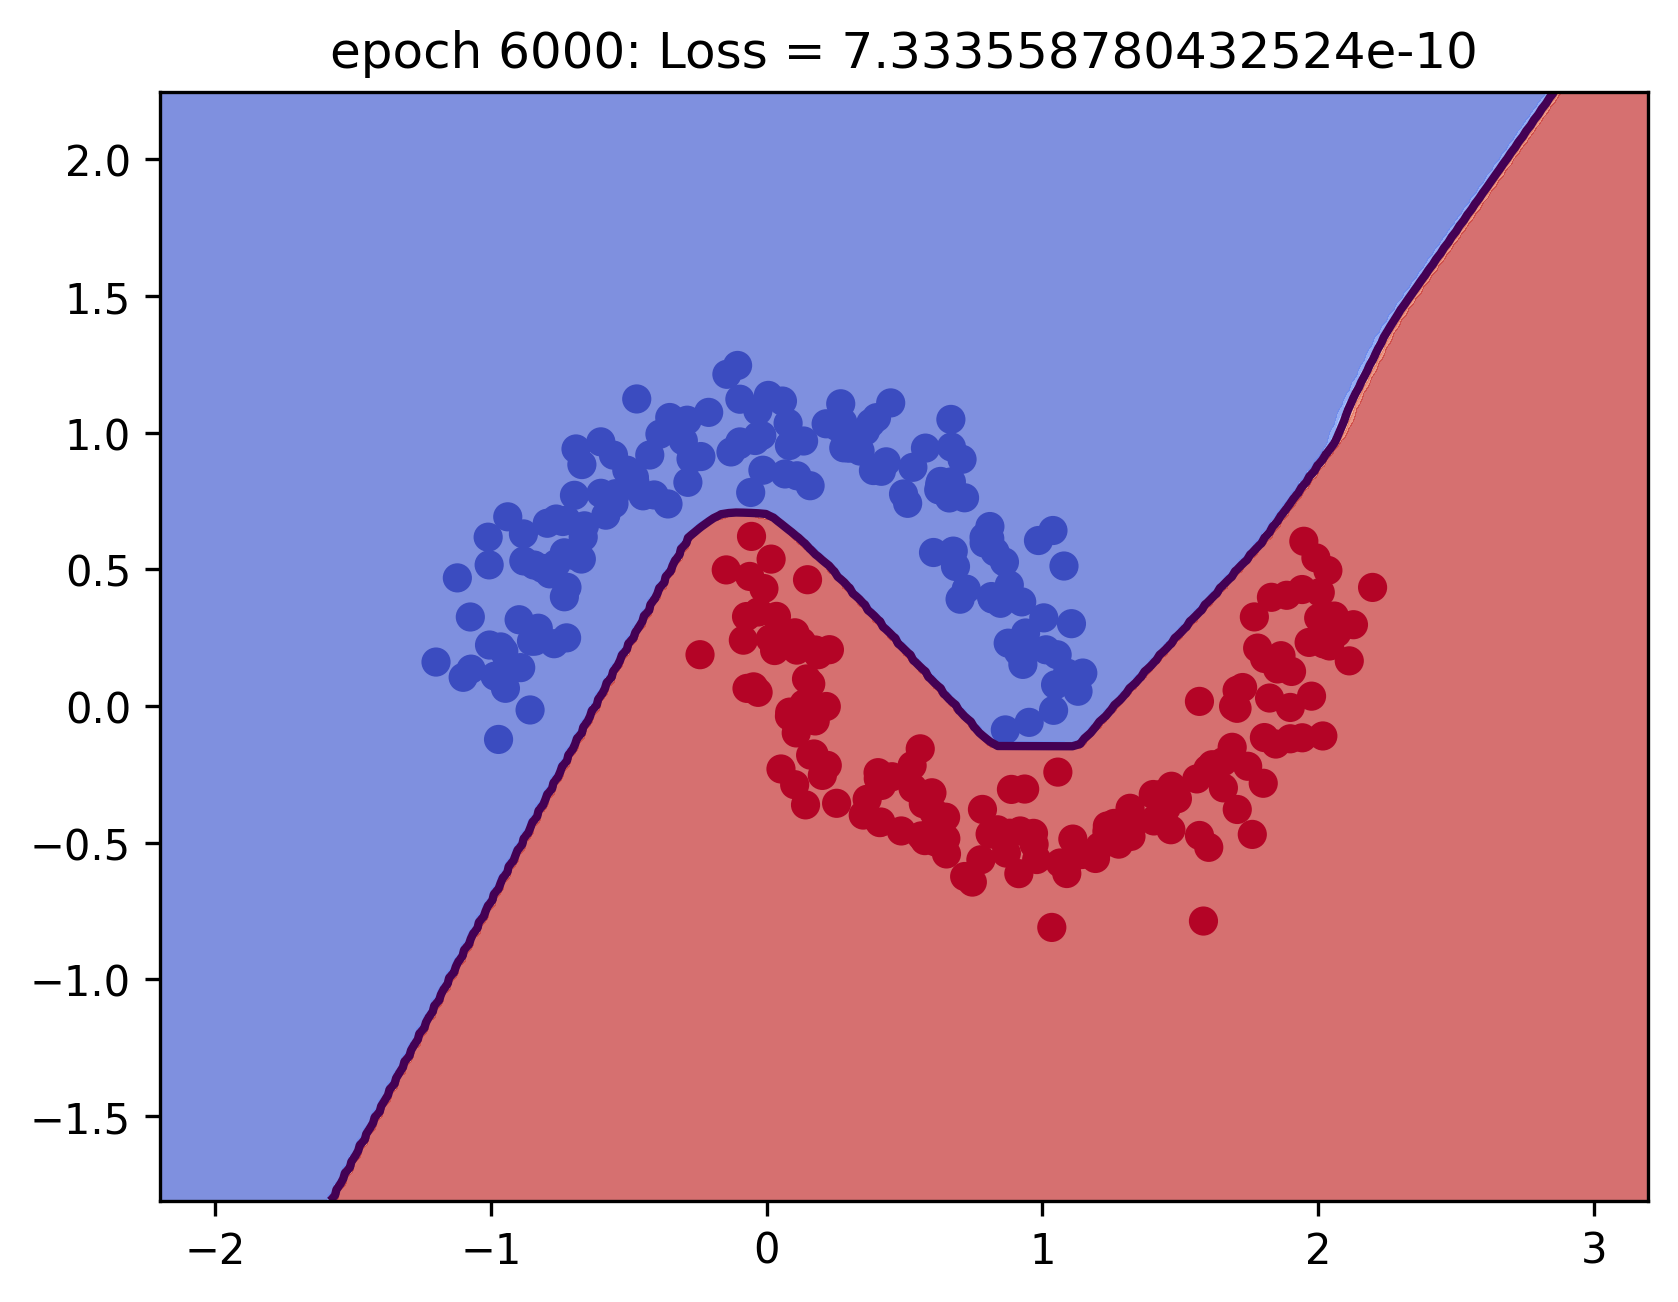
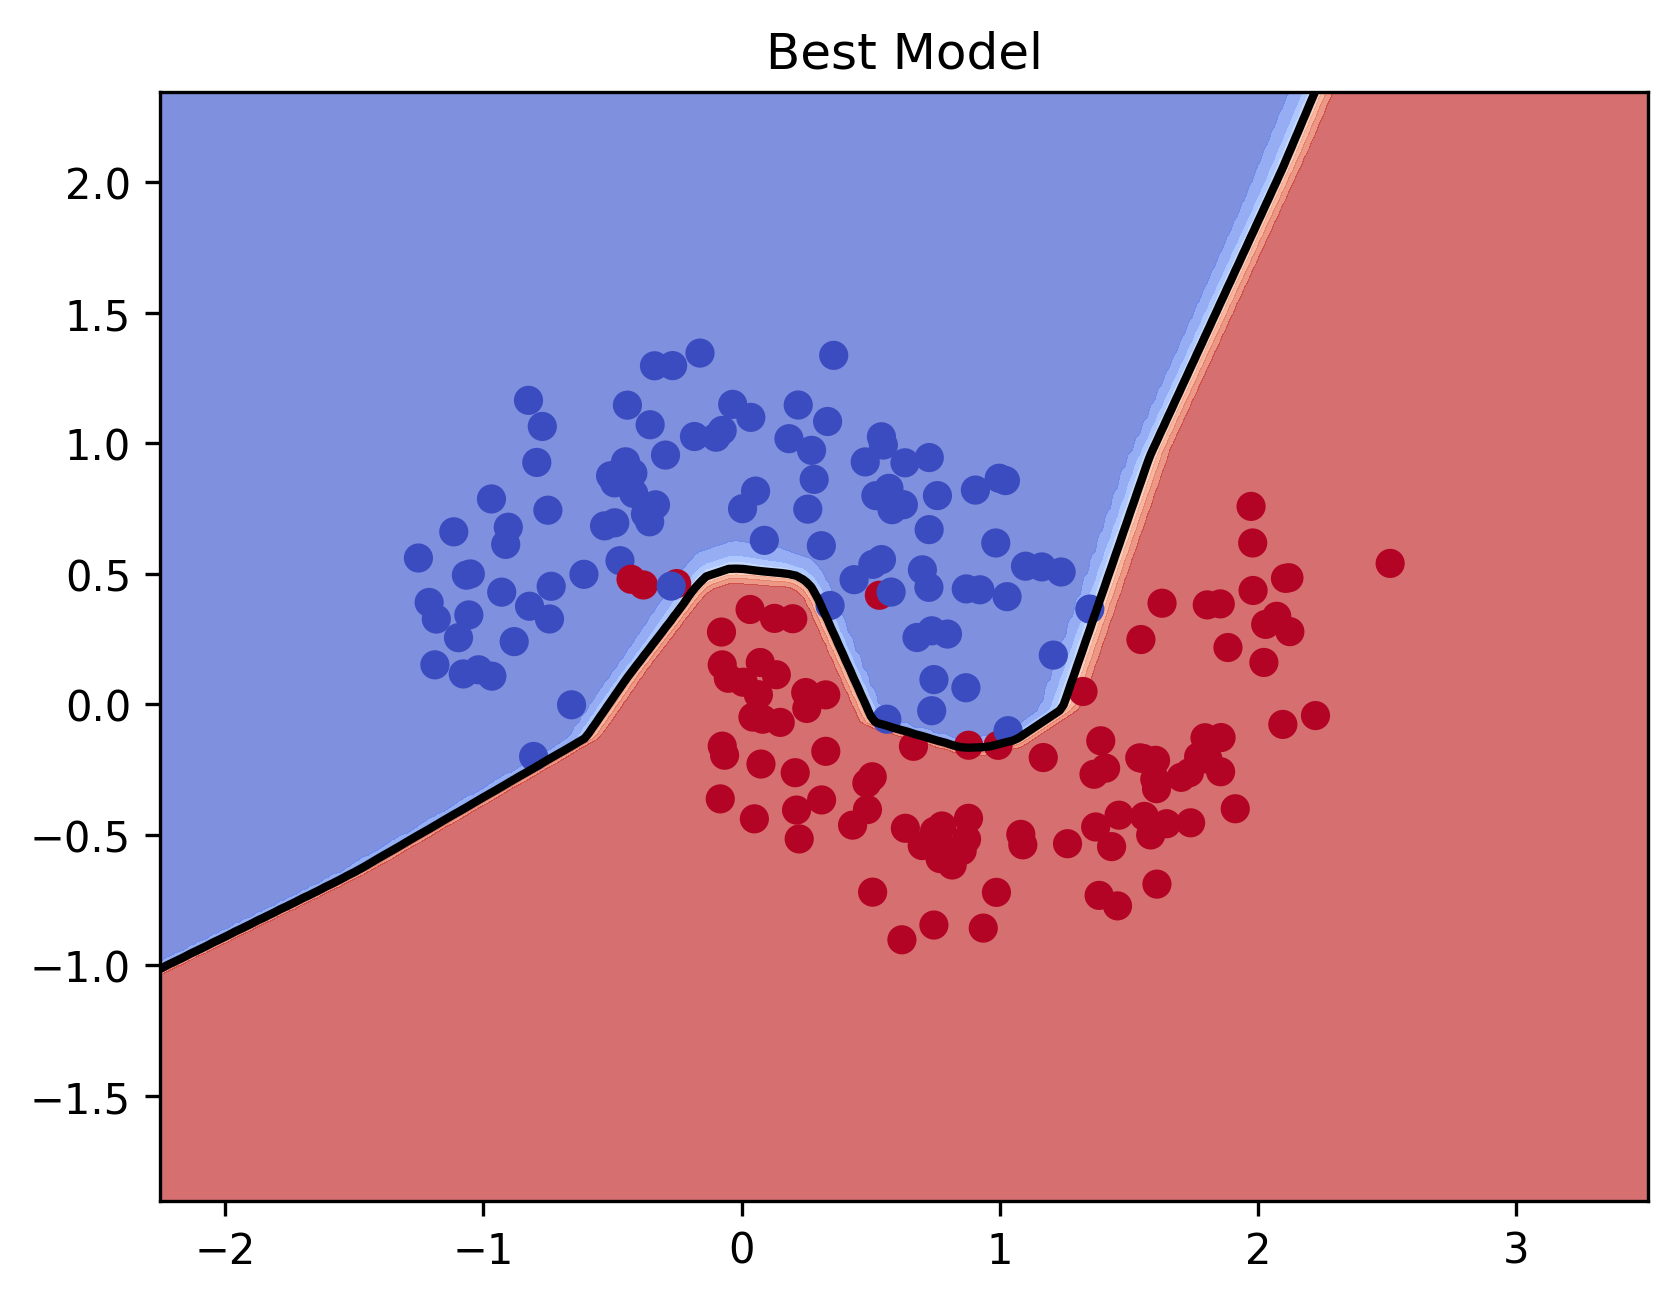
Implemented train/val/test data splitting

diff --git a/models/neural_network.py b/models/neural_network.py
@@ -9,7 +9,8 @@ class NN:
         ):
         self.W = [None]
         self.b = [None]
-        self.losses = []
+        self.train_losses = []
+        self.val_losses = []
         self.layer_sizes = layer_sizes
         self.hidden_activation = hidden_activation
         self.output_activation = output_activation
@@ -18,6 +19,10 @@ class NN:
         '''
         Initializes the random weights and biases of the network
         '''
+        self.W = [None]
+        self.b = [None]
+        self.train_losses = []
+        self.val_losses = []
         full_layers_sizes = [n_features] +  self.layer_sizes
         n_layers = len(full_layers_sizes)
 
@@ -86,18 +91,98 @@ class NN:
         return dJdW, dJdb
 
 
-    def fit(self, X, y, epochs=10000, learning_rate=0.01) -> None:
+    def fit(
+            self,
+            X: np.ndarray,
+            y: np.ndarray,
+            X_val: np.ndarray=None,
+            y_val: np.ndarray=None,
+            learning_rate: float=0.01,
+            epochs: int=10000,
+            optimizer: str='gd',
+            tolerance: float = 1e-12,
+            patience: int=100,
+            callback=None
+        ) -> None:
         self._init_parameters(len(next(iter(X))))
 
+        M_w = [np.zeros_like(w) if w is not None else 0 for w in self.W]
+        M_b = [np.zeros_like(b) if b is not None else 0 for b in self.b]
+        V_w = [np.zeros_like(w) if w is not None else 0 for w in self.W]
+        V_b = [np.zeros_like(b) if b is not None else 0 for b in self.b]
+
+        beta1 = 0.9
+        beta2 = 0.99
+        t = 0
+
+        eps = 1e-8
+        prev_loss = 0
+        patience_counter = 0
+
+        if X_val is not None and y_val is not None:
+            best_val_loss = 1e9
+            best_W = None
+            best_b = None
+        else:
+            best_val_loss = None
+            val_loss = None
+
         for epoch in range(epochs):
+            t = epoch + 1
+
             a, Z = self.forward(X)
-            loss = self.compute_cost(a[-1], y)
-            self.losses.append(loss)
+            train_loss = self.compute_cost(a[-1], y)
+            self.train_losses.append(train_loss)
+
+            if X_val is not None and y_val is not None:
+                a_, Z_ = self.forward(X_val)
+                val_loss = self.compute_cost(a_[-1], y_val)
+                self.val_losses.append(val_loss)
+
+                if val_loss < best_val_loss:
+                    best_val_loss = val_loss
+                    best_W = [w.copy() if w is not None else None for w in self.W]
+                    best_b = [b.copy() if b is not None else None for b in self.b]
+                    best_epoch = epoch
+                    patience_counter = 0
+                else:
+                    patience_counter += 1
+            
+            if abs(train_loss - prev_loss) < tolerance or patience_counter > patience:
+                print(f"Early stopping at epoch={epoch}")
+                break
+
+            prev_loss = train_loss
+
             dW, db = self.backprop(a, Z, y)
             for i in range(1, len(self.W)):
-                self.W[i] = self.W[i] - learning_rate * dW[i]
-                self.b[i] = self.b[i] - learning_rate * db[i]
-            print(f"epoch {epoch}: Loss = {loss}")
+                if optimizer == 'gd':
+                    self.W[i] = self.W[i] - learning_rate * dW[i]
+                    self.b[i] = self.b[i] - learning_rate * db[i]
+                elif optimizer == 'adam':
+                    M_w[i] = beta1 * M_w[i] + (1 - beta1) * dW[i]
+                    M_b[i] = beta1 * M_b[i] + (1 - beta1) * db[i]
+
+                    V_w[i] = beta2 * V_w[i] + (1 - beta2) * dW[i]**2
+                    V_b[i] = beta2 * V_b[i] + (1 - beta2) * db[i]**2
+
+                    M_w_hat = M_w[i] / (1 - beta1 ** t)
+                    M_b_hat = M_b[i] / (1 - beta1 ** t)
+
+                    V_w_hat = V_w[i] / (1 - beta2 ** t)
+                    V_b_hat = V_b[i] / (1 - beta2 ** t)
+
+                    self.W[i] = self.W[i] - learning_rate * M_w_hat / (np.sqrt(V_w_hat) + eps)
+                    self.b[i] = self.b[i] - learning_rate * M_b_hat / (np.sqrt(V_b_hat) + eps)
+            
+            if epoch % 50 == 0:
+                print(f"epoch {epoch}: Train Loss = {train_loss} - Validation Loss = {val_loss} - Best Validation Loss = {best_val_loss}")
+                if callback:
+                    callback(self, epoch)
+
+        if X_val is not None and y_val is not None:
+            self.W = best_W
+            self.b = best_b
         
 
     def g(self, activation, Z):
@@ -114,62 +199,12 @@ class NN:
 
         return activations[activation](Z)
 
+
     def predict_prob(self, X):
         a, _ = self.forward(X)
         return a[-1]
 
-    
+
     def predict(self, X):
         a, Z = self.forward(X)
         return (a[-1] > 0.5).astype(int)
-
-
-    def train_with_plt(self, X, y, epochs=10000, learning_rate=0.01) -> None:
-        self._init_parameters(len(next(iter(X))))
-
-        plt.ion()
-        fig, ax = plt.subplots()
-
-        ax.scatter(X, y, edgecolors='green')
-        ax.set_title("Live Neural Network Leanring")
-        ax.set_xlabel("X")
-        ax.set_ylabel("y")
-
-        x_line = np.linspace(np.min(X) - 1, np.max(X) + 1, 500).reshape(-1, 1)
-        a_init, _ = self.forward(x_line)
-        graph,  = ax.plot(x_line, a_init[-1])
-
-        for epoch in range(epochs):
-            a, Z = self.forward(X)
-            loss = self.compute_cost(a[-1], y)
-            self.losses.append(loss)
-            dW, db = self.backprop(a, Z, y)
-            for i in range(1, len(self.W)):
-                self.W[i] = self.W[i] - learning_rate * dW[i]
-                self.b[i] = self.b[i] - learning_rate * db[i]
-            if epoch % 50 == 0:
-                a_curr, _ = self.forward(x_line)
-                graph.set_ydata(a_curr[-1])
-                ax.set_title(f"epoch {epoch}: Loss = {loss}")
-                plt.pause(0.05)
-                print(f"epoch {epoch}: Loss = {loss}")
-
-        plt.ioff()
-        plt.show()
-
-
-    def plot_loss(self):
-        plt.plot(self.losses)
-        plt.show()
-
-def main():
-    nn1 = NN(hidden_activation='linear', layer_sizes=[4, 1])
-    X = np.array([[1], [2], [3], [2], [50], [60] ,[55], [61]])
-    y = np.array([[0], [0], [0], [0], [1], [1], [1], [1]])
-    nn1.train_with_plt(X, y, epochs=10000)
-    prediction = nn1.predict([[5], [0], [30], [70]])
-    print(prediction)
-    nn1.plot_loss()
-
-if __name__ == "__main__":
-    main()

diff --git a/experiments/neural_networks_experiment/run_neural_networks_2d.py b/experiments/neural_networks_experiment/run_neural_networks_2d.py
@@ -8,16 +8,19 @@ sys.path.append(PROJECT_ROOT)
 
 from models.neural_network import NN
 from sklearn.datasets import make_moons
+from utils.data_preprocessing import train_test_split
 
 
 def run_experiment():
     #-------------
     # X, y, model
     #-------------
-    nn = NN(layer_sizes=[16, 8, 4, 1])
-    X, y = make_moons(n_samples=300, noise=0.1)
+    nn = NN(layer_sizes=[16, 8, 4, 1], hidden_activation='relu')
+    X, y = make_moons(n_samples=200, noise=0.2)
     y = y.reshape(-1, 1)
-    print(X.shape, y.shape)
+
+    X_train, y_train, X_val, y_val, X_test, y_test = train_test_split(X, y)
+
     #-------------
     # plot
     #-------------
@@ -37,21 +40,36 @@ def run_experiment():
     x0, x1 = np.meshgrid(x0_line, x1_line)
     grid_points = np.c_[x0.ravel(), x1.ravel()]
 
-    def LivePlot2D(model, epoch, loss):
+    def LivePlot2D(model, epoch):
         ax.cla()
         a, _ = model.forward(grid_points)
         y_ = a[-1].reshape(x0.shape)
  
         ax.contourf(x0, x1, y_, levels=10, cmap='coolwarm', alpha=0.7)
-        ax.contour(x0, x1, y_, levels=[0.5], color='black', linewidths=2)
+        ax.contour(x0, x1, y_, levels=[0.5], colors='black', linewidths=2)
         ax.scatter(X[:, 0], X[:, 1], c=y.ravel(), cmap='coolwarm')
-        ax.set_title(f"epoch {epoch}: Loss = {loss}")
+        if isinstance(epoch, int):
+            ax.set_title(f"epoch {epoch}")
+        elif isinstance(epoch, str):
+            ax.set_title(epoch)
         plt.pause(0.02)
 
-    nn.fit(X, y, epochs=20000, optimizer='adam', callback=LivePlot2D)
+    nn.fit(X_train, y_train, X_val, y_val, epochs=10000, optimizer='adam', callback=LivePlot2D)
+    plt.pause(1)
+    LivePlot2D(nn, "Best Model")
     save_figure("Prediction_Curve_2D")
     plt.ioff()
     plt.show()
+
+    fig2 = plt.plot(nn.train_losses, label="Training Loss")
+    plt.plot(nn.val_losses, label="Validation Loss")
+    plt.legend()
+    plt.grid(True)
+    plt.show()
+
+    predicitons = nn.predict(X_test)
+    print(np.mean(predicitons == y_test) * 100)
+    
 
 def save_figure(filename: str):
     path = os.path.join(os.path.dirname(__file__), "figures", filename)

diff --git a/utils/data_preprocessing.py b/utils/data_preprocessing.py
@@ -57,3 +57,37 @@ def polynomial_features(X: np.ndarray, degree: int) -> np.ndarray:
         X_poly = np.hstack((X_poly, features ** d))
 
     return X_poly
+
+
+def train_test_split(
+        X: np.ndarray,
+        y: np.ndarray,
+        train_ratio: float=0.6,
+        val_ratio: float=0.2,
+        seed: int=42
+    ) -> tuple[np.ndarray, np.ndarray, np.ndarray, np.ndarray, np.ndarray, np.ndarray]:
+    if seed is not None:
+        np.random.seed(seed)
+
+    m = X.shape[0]
+    indices = np.random.permutation(m)
+
+    # shuffle
+    X_shuffled = X[indices]
+    y_shuffled = y[indices]
+
+    train_end = int(m * train_ratio)
+    val_end = int(m * (train_ratio + val_ratio))
+
+    X_train = X_shuffled[: train_end]
+    y_train = y_shuffled[: train_end]
+
+    X_val = X_shuffled[train_end: val_end]
+    y_val = y_shuffled[train_end: val_end]
+
+    X_test = X_shuffled[val_end:]
+    y_test = y_shuffled[val_end:]
+
+    return X_train, y_train, X_val, y_val, X_test, y_test
+    
+    
